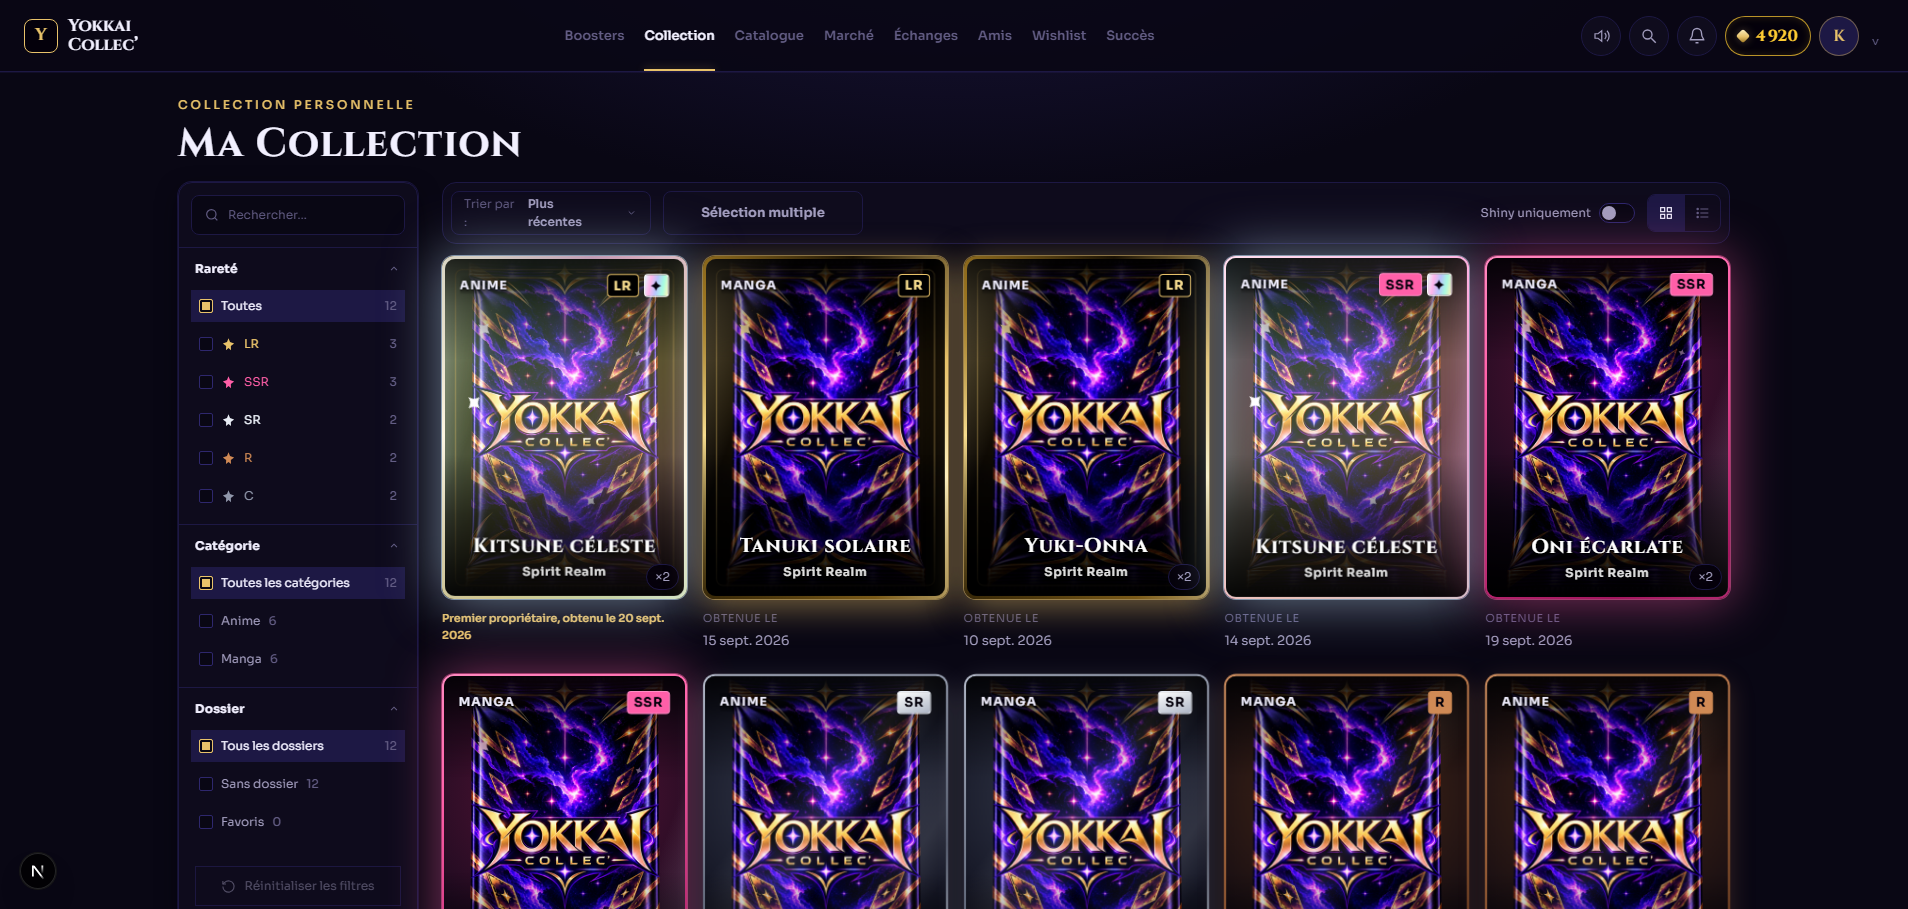
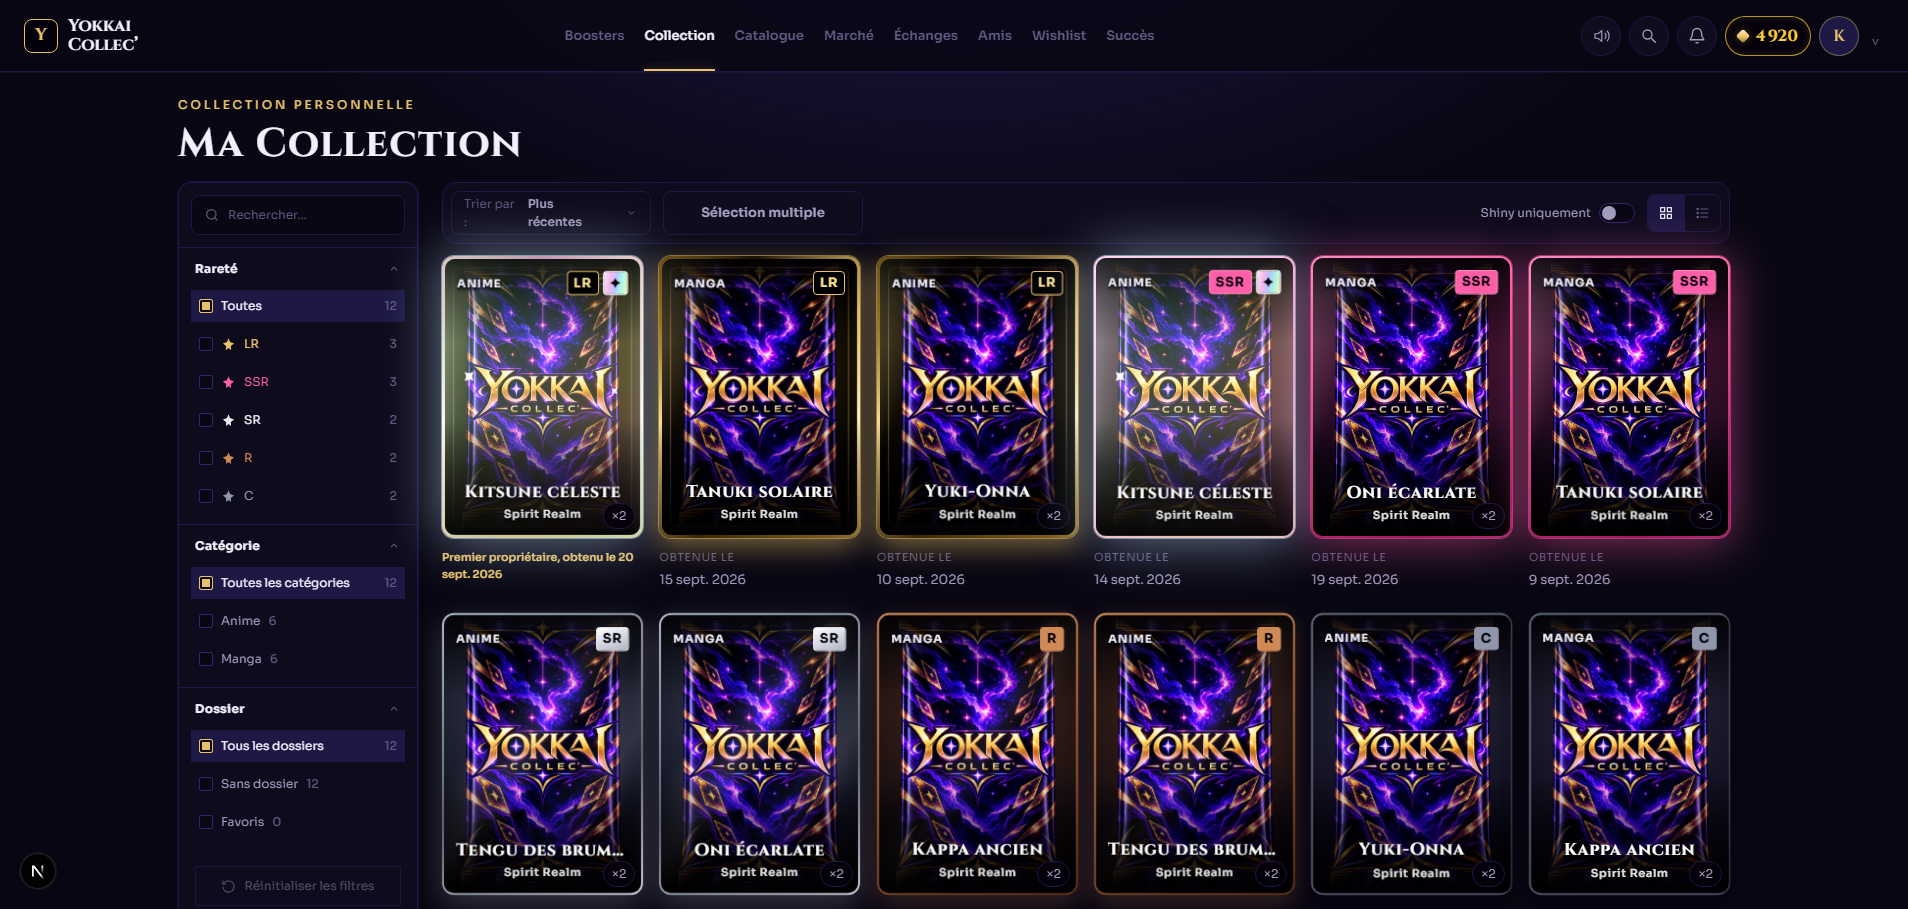
feat: show six collection cards per row on large screens
Five columns below 1280px, four below 1080px, unchanged on mobile.

diff --git a/styles/collection.css b/styles/collection.css
@@ -42,7 +42,7 @@
 .yk-view-toggle button { display: grid; place-items: center; width: calc(var(--spacing) * 9); aspect-ratio: 1; color: var(--color-ink-3); }
 .yk-view-toggle button+button { border-left: 1px solid var(--color-veil); }
 .yk-view-toggle button[aria-pressed="true"] { background: var(--color-veil); color: var(--color-ink); }
-.yk-collection-grid { display: grid; grid-template-columns: repeat(5,minmax(0,1fr)); column-gap: var(--collection-grid-gap); row-gap: var(--collection-row-gap); }
+.yk-collection-grid { display: grid; grid-template-columns: repeat(6,minmax(0,1fr)); column-gap: var(--collection-grid-gap); row-gap: var(--collection-row-gap); }
 .yk-collection-grid>li { transition: background var(--duration-fast) var(--ease-standard); }
 .yk-collection-card { position: relative; display: block; width: 100%; border-radius: var(--radius-card); text-align: left; }
 .yk-collection-card-meta { margin-top: calc(var(--spacing) * 3); }
@@ -62,6 +62,7 @@
 .yk-detail-grid { display: grid; grid-template-columns: var(--collection-detail-art-width) minmax(0,1fr); align-items: stretch; gap: calc(var(--spacing) * 8); }
 .yk-detail-art { width: 100%; max-width: var(--collection-detail-art-width); }
 
+@media (max-width: 1280px) { .yk-collection-grid:not(.yk-collection-grid-list) { grid-template-columns: repeat(5,minmax(0,1fr)); } }
 @media (max-width: 1080px) { .yk-collection-grid { grid-template-columns: repeat(4,minmax(0,1fr)); } }
 @media (max-width: 760px) {
   .yk-mobile-filter-trigger { display: flex; align-items: center; justify-content: center; gap: calc(var(--spacing) * 2); width: 100%; margin-top: calc(var(--spacing) * 3); padding: calc(var(--spacing) * 2.5); border: 1px solid var(--color-veil-strong); border-radius: var(--radius-button); background: var(--color-surface); color: var(--color-ink-2); font-size: var(--text-sm); }
